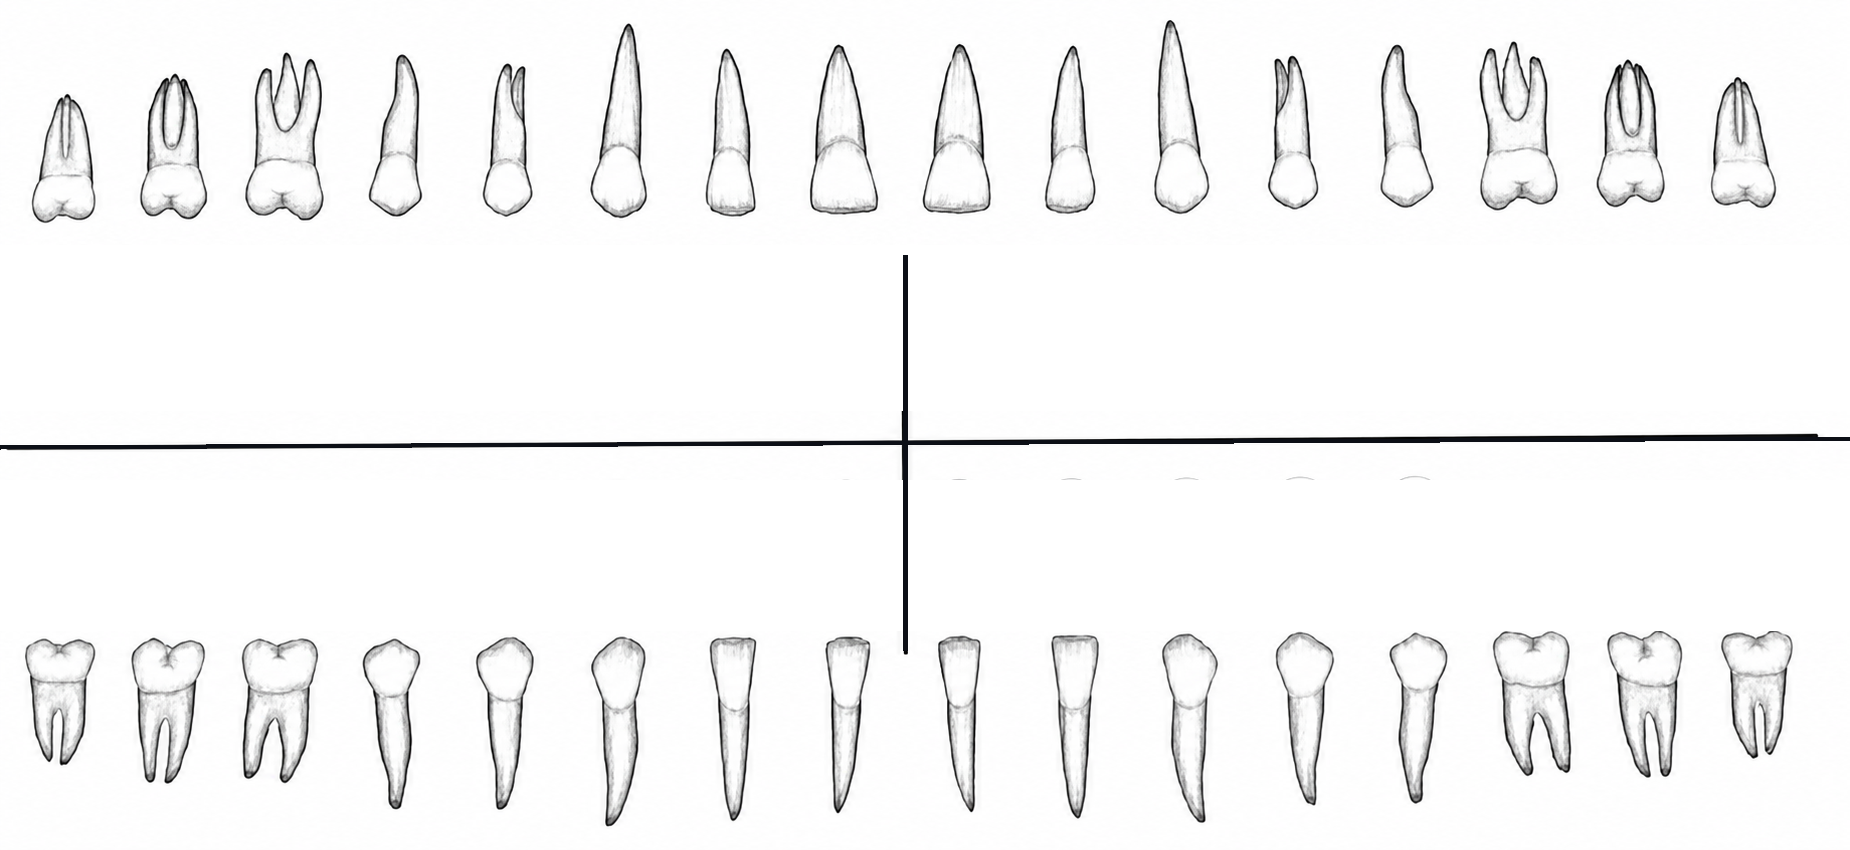
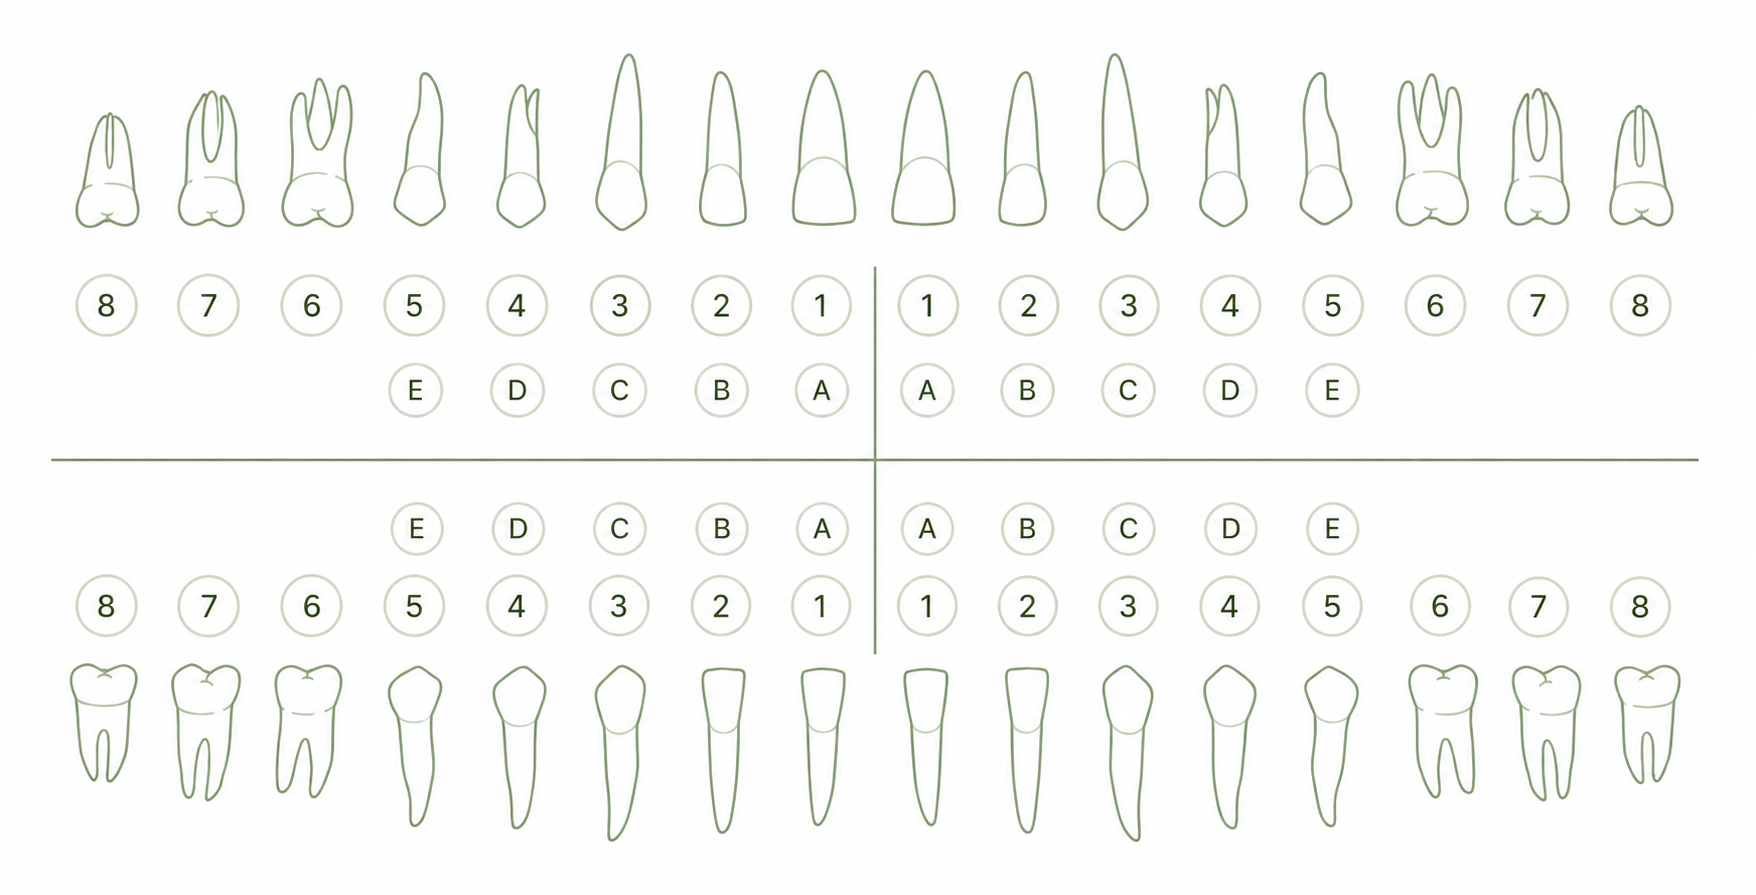
feat: update tooth chart and optional tooth selection

diff --git a/features/tooth/ToothSelector.tsx b/features/tooth/ToothSelector.tsx
@@ -13,58 +13,58 @@ type ToothImagePoint = {
 };
 
 const TOOTH_IMAGE_POINTS: ToothImagePoint[] = [
-  { value: '18', label: '8', groupKey: 'UR-8', kind: 'permanent', arch: 'upper', left: 3.3, top: 34.2, size: 'md' },
-  { value: '17', label: '7', groupKey: 'UR-7', kind: 'permanent', arch: 'upper', left: 9.3, top: 34.2, size: 'md' },
-  { value: '16', label: '6', groupKey: 'UR-6', kind: 'permanent', arch: 'upper', left: 15.3, top: 34.2, size: 'md' },
-  { value: '15', label: '5', groupKey: 'UR-5', kind: 'permanent', arch: 'upper', left: 21.3, top: 34.2, size: 'md' },
-  { value: '14', label: '4', groupKey: 'UR-4', kind: 'permanent', arch: 'upper', left: 27.3, top: 34.2, size: 'md' },
-  { value: '13', label: '3', groupKey: 'UR-3', kind: 'permanent', arch: 'upper', left: 33.3, top: 34.2, size: 'md' },
-  { value: '12', label: '2', groupKey: 'UR-2', kind: 'permanent', arch: 'upper', left: 39.4, top: 34.2, size: 'md' },
-  { value: '11', label: '1', groupKey: 'UR-1', kind: 'permanent', arch: 'upper', left: 45.4, top: 34.2, size: 'md' },
-  { value: '21', label: '1', groupKey: 'UL-1', kind: 'permanent', arch: 'upper', left: 51.9, top: 34.2, size: 'md' },
-  { value: '22', label: '2', groupKey: 'UL-2', kind: 'permanent', arch: 'upper', left: 58.0, top: 34.2, size: 'md' },
-  { value: '23', label: '3', groupKey: 'UL-3', kind: 'permanent', arch: 'upper', left: 64.0, top: 34.2, size: 'md' },
-  { value: '24', label: '4', groupKey: 'UL-4', kind: 'permanent', arch: 'upper', left: 70.0, top: 34.2, size: 'md' },
-  { value: '25', label: '5', groupKey: 'UL-5', kind: 'permanent', arch: 'upper', left: 76.0, top: 34.2, size: 'md' },
-  { value: '26', label: '6', groupKey: 'UL-6', kind: 'permanent', arch: 'upper', left: 82.0, top: 34.2, size: 'md' },
-  { value: '27', label: '7', groupKey: 'UL-7', kind: 'permanent', arch: 'upper', left: 88.0, top: 34.2, size: 'md' },
-  { value: '28', label: '8', groupKey: 'UL-8', kind: 'permanent', arch: 'upper', left: 94.1, top: 34.2, size: 'md' },
-  { value: '右上E', label: 'E', groupKey: 'UR-5', kind: 'primary', arch: 'upper', left: 21.3, top: 42.9, size: 'sm' },
-  { value: '右上D', label: 'D', groupKey: 'UR-4', kind: 'primary', arch: 'upper', left: 27.3, top: 42.9, size: 'sm' },
-  { value: '右上C', label: 'C', groupKey: 'UR-3', kind: 'primary', arch: 'upper', left: 33.3, top: 42.9, size: 'sm' },
-  { value: '右上B', label: 'B', groupKey: 'UR-2', kind: 'primary', arch: 'upper', left: 39.4, top: 42.9, size: 'sm' },
-  { value: '右上A', label: 'A', groupKey: 'UR-1', kind: 'primary', arch: 'upper', left: 45.4, top: 42.9, size: 'sm' },
-  { value: '左上A', label: 'A', groupKey: 'UL-1', kind: 'primary', arch: 'upper', left: 51.9, top: 42.9, size: 'sm' },
-  { value: '左上B', label: 'B', groupKey: 'UL-2', kind: 'primary', arch: 'upper', left: 58.0, top: 42.9, size: 'sm' },
-  { value: '左上C', label: 'C', groupKey: 'UL-3', kind: 'primary', arch: 'upper', left: 64.0, top: 42.9, size: 'sm' },
-  { value: '左上D', label: 'D', groupKey: 'UL-4', kind: 'primary', arch: 'upper', left: 70.0, top: 42.9, size: 'sm' },
-  { value: '左上E', label: 'E', groupKey: 'UL-5', kind: 'primary', arch: 'upper', left: 76.0, top: 42.9, size: 'sm' },
-  { value: '48', label: '8', groupKey: 'LR-8', kind: 'permanent', arch: 'lower', left: 3.3, top: 69.2, size: 'md' },
-  { value: '47', label: '7', groupKey: 'LR-7', kind: 'permanent', arch: 'lower', left: 9.3, top: 69.2, size: 'md' },
-  { value: '46', label: '6', groupKey: 'LR-6', kind: 'permanent', arch: 'lower', left: 15.3, top: 69.2, size: 'md' },
-  { value: '45', label: '5', groupKey: 'LR-5', kind: 'permanent', arch: 'lower', left: 21.3, top: 69.2, size: 'md' },
-  { value: '44', label: '4', groupKey: 'LR-4', kind: 'permanent', arch: 'lower', left: 27.3, top: 69.2, size: 'md' },
-  { value: '43', label: '3', groupKey: 'LR-3', kind: 'permanent', arch: 'lower', left: 33.3, top: 69.2, size: 'md' },
-  { value: '42', label: '2', groupKey: 'LR-2', kind: 'permanent', arch: 'lower', left: 39.4, top: 69.2, size: 'md' },
-  { value: '41', label: '1', groupKey: 'LR-1', kind: 'permanent', arch: 'lower', left: 45.4, top: 69.2, size: 'md' },
-  { value: '31', label: '1', groupKey: 'LL-1', kind: 'permanent', arch: 'lower', left: 51.9, top: 69.2, size: 'md' },
-  { value: '32', label: '2', groupKey: 'LL-2', kind: 'permanent', arch: 'lower', left: 58.0, top: 69.2, size: 'md' },
-  { value: '33', label: '3', groupKey: 'LL-3', kind: 'permanent', arch: 'lower', left: 64.0, top: 69.2, size: 'md' },
-  { value: '34', label: '4', groupKey: 'LL-4', kind: 'permanent', arch: 'lower', left: 70.0, top: 69.2, size: 'md' },
-  { value: '35', label: '5', groupKey: 'LL-5', kind: 'permanent', arch: 'lower', left: 76.0, top: 69.2, size: 'md' },
-  { value: '36', label: '6', groupKey: 'LL-6', kind: 'permanent', arch: 'lower', left: 82.0, top: 69.2, size: 'md' },
-  { value: '37', label: '7', groupKey: 'LL-7', kind: 'permanent', arch: 'lower', left: 88.0, top: 69.2, size: 'md' },
-  { value: '38', label: '8', groupKey: 'LL-8', kind: 'permanent', arch: 'lower', left: 94.1, top: 69.2, size: 'md' },
-  { value: '右下E', label: 'E', groupKey: 'LR-5', kind: 'primary', arch: 'lower', left: 21.3, top: 61.2, size: 'sm' },
-  { value: '右下D', label: 'D', groupKey: 'LR-4', kind: 'primary', arch: 'lower', left: 27.3, top: 61.2, size: 'sm' },
-  { value: '右下C', label: 'C', groupKey: 'LR-3', kind: 'primary', arch: 'lower', left: 33.3, top: 61.2, size: 'sm' },
-  { value: '右下B', label: 'B', groupKey: 'LR-2', kind: 'primary', arch: 'lower', left: 39.4, top: 61.2, size: 'sm' },
-  { value: '右下A', label: 'A', groupKey: 'LR-1', kind: 'primary', arch: 'lower', left: 45.4, top: 61.2, size: 'sm' },
-  { value: '左下A', label: 'A', groupKey: 'LL-1', kind: 'primary', arch: 'lower', left: 51.9, top: 61.2, size: 'sm' },
-  { value: '左下B', label: 'B', groupKey: 'LL-2', kind: 'primary', arch: 'lower', left: 58.0, top: 61.2, size: 'sm' },
-  { value: '左下C', label: 'C', groupKey: 'LL-3', kind: 'primary', arch: 'lower', left: 64.0, top: 61.2, size: 'sm' },
-  { value: '左下D', label: 'D', groupKey: 'LL-4', kind: 'primary', arch: 'lower', left: 70.0, top: 61.2, size: 'sm' },
-  { value: '左下E', label: 'E', groupKey: 'LL-5', kind: 'primary', arch: 'lower', left: 76.0, top: 61.2, size: 'sm' },
+  { value: '18', label: '8', groupKey: 'UR-8', kind: 'permanent', arch: 'upper', left: 6.0, top: 34.4, size: 'md' },
+  { value: '17', label: '7', groupKey: 'UR-7', kind: 'permanent', arch: 'upper', left: 11.9, top: 34.4, size: 'md' },
+  { value: '16', label: '6', groupKey: 'UR-6', kind: 'permanent', arch: 'upper', left: 17.9, top: 34.4, size: 'md' },
+  { value: '15', label: '5', groupKey: 'UR-5', kind: 'permanent', arch: 'upper', left: 23.7, top: 34.4, size: 'md' },
+  { value: '14', label: '4', groupKey: 'UR-4', kind: 'permanent', arch: 'upper', left: 29.5, top: 34.4, size: 'md' },
+  { value: '13', label: '3', groupKey: 'UR-3', kind: 'permanent', arch: 'upper', left: 35.4, top: 34.4, size: 'md' },
+  { value: '12', label: '2', groupKey: 'UR-2', kind: 'permanent', arch: 'upper', left: 41.2, top: 34.4, size: 'md' },
+  { value: '11', label: '1', groupKey: 'UR-1', kind: 'permanent', arch: 'upper', left: 47.0, top: 34.4, size: 'md' },
+  { value: '21', label: '1', groupKey: 'UL-1', kind: 'permanent', arch: 'upper', left: 53.0, top: 34.4, size: 'md' },
+  { value: '22', label: '2', groupKey: 'UL-2', kind: 'permanent', arch: 'upper', left: 58.8, top: 34.4, size: 'md' },
+  { value: '23', label: '3', groupKey: 'UL-3', kind: 'permanent', arch: 'upper', left: 64.6, top: 34.4, size: 'md' },
+  { value: '24', label: '4', groupKey: 'UL-4', kind: 'permanent', arch: 'upper', left: 70.4, top: 34.4, size: 'md' },
+  { value: '25', label: '5', groupKey: 'UL-5', kind: 'permanent', arch: 'upper', left: 76.3, top: 34.4, size: 'md' },
+  { value: '26', label: '6', groupKey: 'UL-6', kind: 'permanent', arch: 'upper', left: 82.1, top: 34.4, size: 'md' },
+  { value: '27', label: '7', groupKey: 'UL-7', kind: 'permanent', arch: 'upper', left: 88.0, top: 34.4, size: 'md' },
+  { value: '28', label: '8', groupKey: 'UL-8', kind: 'permanent', arch: 'upper', left: 93.8, top: 34.4, size: 'md' },
+  { value: '右上E', label: 'E', groupKey: 'UR-5', kind: 'primary', arch: 'upper', left: 23.7, top: 43.6, size: 'sm' },
+  { value: '右上D', label: 'D', groupKey: 'UR-4', kind: 'primary', arch: 'upper', left: 29.5, top: 43.6, size: 'sm' },
+  { value: '右上C', label: 'C', groupKey: 'UR-3', kind: 'primary', arch: 'upper', left: 35.4, top: 43.6, size: 'sm' },
+  { value: '右上B', label: 'B', groupKey: 'UR-2', kind: 'primary', arch: 'upper', left: 41.2, top: 43.6, size: 'sm' },
+  { value: '右上A', label: 'A', groupKey: 'UR-1', kind: 'primary', arch: 'upper', left: 47.0, top: 43.6, size: 'sm' },
+  { value: '左上A', label: 'A', groupKey: 'UL-1', kind: 'primary', arch: 'upper', left: 53.0, top: 43.6, size: 'sm' },
+  { value: '左上B', label: 'B', groupKey: 'UL-2', kind: 'primary', arch: 'upper', left: 58.8, top: 43.6, size: 'sm' },
+  { value: '左上C', label: 'C', groupKey: 'UL-3', kind: 'primary', arch: 'upper', left: 64.6, top: 43.6, size: 'sm' },
+  { value: '左上D', label: 'D', groupKey: 'UL-4', kind: 'primary', arch: 'upper', left: 70.4, top: 43.6, size: 'sm' },
+  { value: '左上E', label: 'E', groupKey: 'UL-5', kind: 'primary', arch: 'upper', left: 76.3, top: 43.6, size: 'sm' },
+  { value: '48', label: '8', groupKey: 'LR-8', kind: 'permanent', arch: 'lower', left: 6.0, top: 67.9, size: 'md' },
+  { value: '47', label: '7', groupKey: 'LR-7', kind: 'permanent', arch: 'lower', left: 11.9, top: 67.9, size: 'md' },
+  { value: '46', label: '6', groupKey: 'LR-6', kind: 'permanent', arch: 'lower', left: 17.9, top: 67.9, size: 'md' },
+  { value: '45', label: '5', groupKey: 'LR-5', kind: 'permanent', arch: 'lower', left: 23.7, top: 67.9, size: 'md' },
+  { value: '44', label: '4', groupKey: 'LR-4', kind: 'permanent', arch: 'lower', left: 29.5, top: 67.9, size: 'md' },
+  { value: '43', label: '3', groupKey: 'LR-3', kind: 'permanent', arch: 'lower', left: 35.4, top: 67.9, size: 'md' },
+  { value: '42', label: '2', groupKey: 'LR-2', kind: 'permanent', arch: 'lower', left: 41.2, top: 67.9, size: 'md' },
+  { value: '41', label: '1', groupKey: 'LR-1', kind: 'permanent', arch: 'lower', left: 47.0, top: 67.9, size: 'md' },
+  { value: '31', label: '1', groupKey: 'LL-1', kind: 'permanent', arch: 'lower', left: 53.0, top: 67.9, size: 'md' },
+  { value: '32', label: '2', groupKey: 'LL-2', kind: 'permanent', arch: 'lower', left: 58.8, top: 67.9, size: 'md' },
+  { value: '33', label: '3', groupKey: 'LL-3', kind: 'permanent', arch: 'lower', left: 64.6, top: 67.9, size: 'md' },
+  { value: '34', label: '4', groupKey: 'LL-4', kind: 'permanent', arch: 'lower', left: 70.4, top: 67.9, size: 'md' },
+  { value: '35', label: '5', groupKey: 'LL-5', kind: 'permanent', arch: 'lower', left: 76.3, top: 67.9, size: 'md' },
+  { value: '36', label: '6', groupKey: 'LL-6', kind: 'permanent', arch: 'lower', left: 82.1, top: 67.9, size: 'md' },
+  { value: '37', label: '7', groupKey: 'LL-7', kind: 'permanent', arch: 'lower', left: 88.0, top: 67.9, size: 'md' },
+  { value: '38', label: '8', groupKey: 'LL-8', kind: 'permanent', arch: 'lower', left: 93.8, top: 67.9, size: 'md' },
+  { value: '右下E', label: 'E', groupKey: 'LR-5', kind: 'primary', arch: 'lower', left: 23.7, top: 58.9, size: 'sm' },
+  { value: '右下D', label: 'D', groupKey: 'LR-4', kind: 'primary', arch: 'lower', left: 29.5, top: 58.9, size: 'sm' },
+  { value: '右下C', label: 'C', groupKey: 'LR-3', kind: 'primary', arch: 'lower', left: 35.4, top: 58.9, size: 'sm' },
+  { value: '右下B', label: 'B', groupKey: 'LR-2', kind: 'primary', arch: 'lower', left: 41.2, top: 58.9, size: 'sm' },
+  { value: '右下A', label: 'A', groupKey: 'LR-1', kind: 'primary', arch: 'lower', left: 47.0, top: 58.9, size: 'sm' },
+  { value: '左下A', label: 'A', groupKey: 'LL-1', kind: 'primary', arch: 'lower', left: 53.0, top: 58.9, size: 'sm' },
+  { value: '左下B', label: 'B', groupKey: 'LL-2', kind: 'primary', arch: 'lower', left: 58.8, top: 58.9, size: 'sm' },
+  { value: '左下C', label: 'C', groupKey: 'LL-3', kind: 'primary', arch: 'lower', left: 64.6, top: 58.9, size: 'sm' },
+  { value: '左下D', label: 'D', groupKey: 'LL-4', kind: 'primary', arch: 'lower', left: 70.4, top: 58.9, size: 'sm' },
+  { value: '左下E', label: 'E', groupKey: 'LL-5', kind: 'primary', arch: 'lower', left: 76.3, top: 58.9, size: 'sm' },
 ];
 
 const formatToothSelection = (value: string) => {
@@ -72,39 +72,6 @@ const formatToothSelection = (value: string) => {
   if (value === 'UPPER') return '上颌';
   if (value === 'LOWER') return '下颌';
   return value.split(',').filter(Boolean).join('、');
-};
-
-const ToothCrown = ({ tooth, selected }: { tooth: ToothPoint, selected: boolean }) => {
-  const isMolar = tooth.type === 'molar';
-  const isPremolar = tooth.type === 'premolar';
-  const width = isMolar ? 44 : isPremolar ? 34 : 29;
-  const height = isMolar ? 50 : isPremolar ? 39 : 34;
-  const rx = isMolar ? 12 : 15;
-
-  return (
-    <g transform={`translate(${tooth.x} ${tooth.y}) rotate(${tooth.angle})`}>
-      <rect
-        x={-width / 2}
-        y={-height / 2}
-        width={width}
-        height={height}
-        rx={rx}
-        className={`${selected ? 'fill-teal-100 stroke-teal-600' : 'fill-white stroke-slate-500 group-hover:fill-teal-50 group-hover:stroke-teal-500'} transition-colors`}
-        strokeWidth="3"
-      />
-      {isMolar ? (
-        <>
-          <path d="M-13 -10 C-4 -15 4 -15 13 -10 M-13 10 C-4 15 4 15 13 10 M-13 -10 C-18 0 -18 5 -13 10 M13 -10 C18 0 18 5 13 10" className={selected ? 'stroke-teal-700' : 'stroke-slate-500 group-hover:stroke-teal-600'} fill="none" strokeWidth="2.4" strokeLinecap="round" />
-          <path d="M-12 0 H12 M0 -14 V14" className={selected ? 'stroke-teal-700' : 'stroke-slate-500 group-hover:stroke-teal-600'} fill="none" strokeWidth="2" strokeLinecap="round" />
-        </>
-      ) : (
-        <>
-          <path d="M-10 -7 C-2 -14 8 -12 11 -4 C7 3 1 8 -9 9 C-13 3 -14 -2 -10 -7Z" className={selected ? 'stroke-teal-700' : 'stroke-slate-500 group-hover:stroke-teal-600'} fill="none" strokeWidth="2.2" strokeLinecap="round" strokeLinejoin="round" />
-          <path d={isPremolar ? 'M-6 0 C0 -6 7 -3 8 5' : 'M-7 4 C0 0 5 -3 8 -9'} className={selected ? 'stroke-teal-700' : 'stroke-slate-500 group-hover:stroke-teal-600'} fill="none" strokeWidth="2" strokeLinecap="round" />
-        </>
-      )}
-    </g>
-  );
 };
 
 export const ToothSelector = ({ value, onChange }: { value: string, onChange: (val: string) => void }) => {
@@ -171,7 +138,7 @@ export const ToothSelector = ({ value, onChange }: { value: string, onChange: (v
       </div>
 
       <div className="w-full overflow-x-auto">
-        <div className="relative mx-auto min-w-[760px] max-w-[920px] aspect-[1850/850] rounded-lg bg-white">
+        <div className="relative mx-auto min-w-[760px] max-w-[920px] aspect-[1756/895] rounded-lg bg-white">
           <img
             src="./tooth-chart.png"
             alt="牙位选择图"
@@ -179,34 +146,39 @@ export const ToothSelector = ({ value, onChange }: { value: string, onChange: (v
             draggable={false}
           />
           {TOOTH_IMAGE_POINTS.map(tooth => {
-          const selected = selectedTeeth.has(tooth.value)
-            || (tooth.kind === 'permanent' && selectedTeeth.has('ALL'))
-            || (tooth.kind === 'permanent' && selectedTeeth.has('UPPER') && tooth.arch === 'upper')
-            || (tooth.kind === 'permanent' && selectedTeeth.has('LOWER') && tooth.arch === 'lower');
-          return (
-            <button
-              key={tooth.value}
-              type="button"
-              aria-label={`选择牙位 ${tooth.value}`}
-              title={`牙位 ${tooth.value}`}
-              style={{ left: `${tooth.left}%`, top: `${tooth.top}%` }}
-              className={`absolute -translate-x-1/2 -translate-y-1/2 rounded-full border-2 font-bold transition-all ${
-                tooth.size === 'sm' ? 'h-7 w-7 text-xs' : 'h-9 w-9 text-sm'
-              } ${
-                selected
-                  ? 'border-teal-700 bg-teal-500/80 text-white shadow-md'
-                  : 'border-slate-300 bg-white/85 text-slate-900 shadow-sm hover:border-teal-500 hover:bg-teal-50 hover:text-teal-900'
-              }`}
-              onPointerDown={e => {
-                e.preventDefault();
-                handlePointerDown(tooth);
-              }}
-              onPointerEnter={() => handlePointerEnter(tooth)}
-            >
-              {tooth.label}
-            </button>
-          );
-        })}
+            const selected = selectedTeeth.has(tooth.value)
+              || (tooth.kind === 'permanent' && selectedTeeth.has('ALL'))
+              || (tooth.kind === 'permanent' && selectedTeeth.has('UPPER') && tooth.arch === 'upper')
+              || (tooth.kind === 'permanent' && selectedTeeth.has('LOWER') && tooth.arch === 'lower');
+
+            return (
+              <button
+                key={tooth.value}
+                type="button"
+                aria-label={`选择牙位 ${tooth.value}`}
+                title={`牙位 ${tooth.value}`}
+                style={{
+                  left: `${tooth.left}%`,
+                  top: `${tooth.top}%`,
+                  width: tooth.size === 'sm' ? 36 : 44,
+                  height: tooth.size === 'sm' ? 36 : 44,
+                  fontSize: tooth.size === 'sm' ? 14 : 16,
+                }}
+                className={`absolute -translate-x-1/2 -translate-y-1/2 rounded-full border-2 font-bold transition-all ${
+                  selected
+                    ? 'border-teal-700 bg-teal-500/80 text-white shadow-md'
+                    : 'border-transparent bg-transparent text-transparent hover:border-teal-500 hover:bg-teal-100/60 hover:text-teal-900'
+                }`}
+                onPointerDown={e => {
+                  e.preventDefault();
+                  handlePointerDown(tooth);
+                }}
+                onPointerEnter={() => handlePointerEnter(tooth)}
+              >
+                {selected ? tooth.label : ''}
+              </button>
+            );
+          })}
         </div>
       </div>
 

diff --git a/modals/EditTreatmentModal.tsx b/modals/EditTreatmentModal.tsx
@@ -12,7 +12,7 @@ export const EditTreatmentModal = ({ phone, record, onClose, onSuccess }: { phon
   const [selectedItemId, setSelectedItemId] = useState('');
 
   const [price, setPrice] = useState(record.price);
-  const [teeth, setTeeth] = useState(record.teeth);
+  const [teeth, setTeeth] = useState(record.teeth || '');
   const [note, setNote] = useState(record.note);
   const [initialLoad, setInitialLoad] = useState(true);
 
@@ -73,10 +73,6 @@ export const EditTreatmentModal = ({ phone, record, onClose, onSuccess }: { phon
 
   const handleSubmit = (e: React.FormEvent) => {
     e.preventDefault();
-    if(!teeth) {
-      alert("请选择牙位");
-      return;
-    }
     const cat = catalog.find(c => c.id === selectedCatId);
     const item = cat?.items.find(i => i.id === selectedItemId);
 
@@ -88,7 +84,7 @@ export const EditTreatmentModal = ({ phone, record, onClose, onSuccess }: { phon
       itemId: item?.id,
       item: itemName,
       price: price,
-      teeth: teeth,
+      teeth: teeth.trim(),
       note: note.trim()
     });
 

diff --git a/pages/PatientDetail.tsx b/pages/PatientDetail.tsx
@@ -191,7 +191,7 @@ export const PatientDetail = ({ patient, onBack, onRefresh }: { patient: Patient
                          <h4 className="font-bold text-teal-700 text-xl">{t.item}</h4>
                          <div className="flex items-center gap-3 mt-3">
                             <span className="bg-orange-50 text-orange-700 px-3 py-1 rounded text-sm font-bold">¥ {t.price}</span>
-                            <span className="bg-blue-50 text-blue-700 px-3 py-1 rounded text-sm font-bold">牙位: {t.teeth}</span>
+                            <span className="bg-blue-50 text-blue-700 px-3 py-1 rounded text-sm font-bold">牙位: {t.teeth || '未指定'}</span>
                          </div>
                        </div>
                        <div className="flex gap-2">

diff --git a/modals/AddTreatmentModal.tsx b/modals/AddTreatmentModal.tsx
@@ -39,15 +39,11 @@ export const AddTreatmentModal = ({ phone, onClose, onSuccess }: { phone: string
 
   const handleSubmit = (e: React.FormEvent) => {
     e.preventDefault();
-    if(!teeth) {
-      alert("请选择牙位");
-      return;
-    }
     const cat = catalog.find(c => c.id === selectedCatId);
     const item = cat?.items.find(i => i.id === selectedItemId);
 
     if (item) {
-      clinicService.addTreatment(phone, item, price, teeth, note.trim(), selectedCatId);
+      clinicService.addTreatment(phone, item, price, teeth.trim(), note.trim(), selectedCatId);
       onSuccess();
     }
   };

diff --git a/tailwind.config.js b/tailwind.config.js
@@ -1,6 +1,14 @@
 /** @type {import('tailwindcss').Config} */
 export default {
-  content: ['./index.html', './App.tsx', './components/**/*.{ts,tsx}'],
+  content: [
+    './index.html',
+    './App.tsx',
+    './components/**/*.{ts,tsx}',
+    './features/**/*.{ts,tsx}',
+    './modals/**/*.{ts,tsx}',
+    './pages/**/*.{ts,tsx}',
+    './utils/**/*.{ts,tsx}',
+  ],
   theme: {
     extend: {}
   },

diff --git a/constants.ts b/constants.ts
@@ -43,4 +43,4 @@ export const CLOUD_SYNC_SETTINGS_KEY = 'dental_clinic_cloud_sync_settings_v1';
 export const RELEASE_SETTINGS_KEY = 'dental_clinic_release_settings_v1';
 export const DEFAULT_RELEASE_API_URL = 'https://api.github.com/repos/SlxBYR/dental-clinic-manager/releases/latest';
 export const DATA_VERSION = 3;
-export const APP_VERSION = '1.1.2';
+export const APP_VERSION = '1.1.3';

diff --git a/types.ts b/types.ts
@@ -17,7 +17,7 @@ export interface TreatmentRecord {
   itemId?: string;
   item: string; // Name of the item
   price: number; // Charged price
-  teeth: string; // Selected teeth numbers or 'ALL', 'UPPER', etc.
+  teeth: string; // 可为空；也可为具体牙位、ALL、UPPER、LOWER 等。
   note: string;
 }
 
